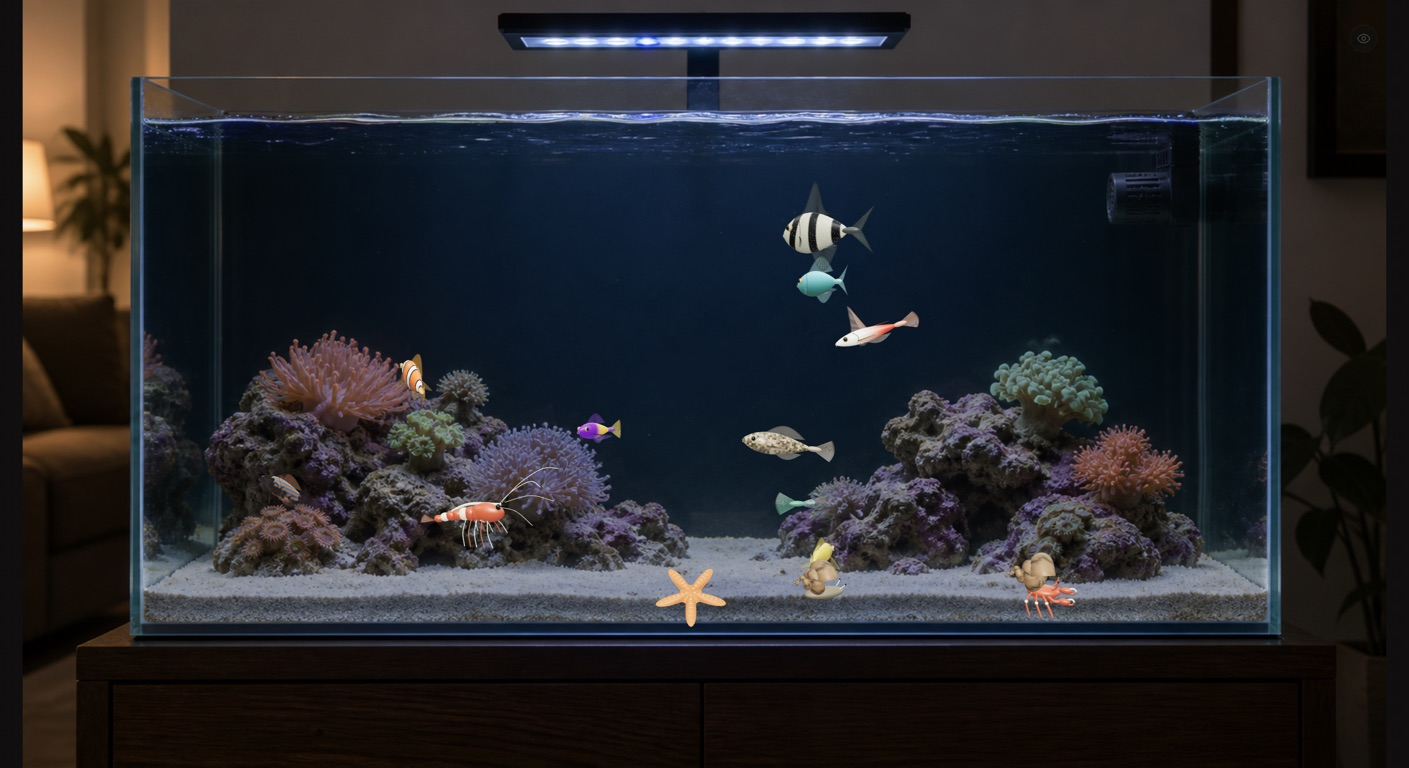
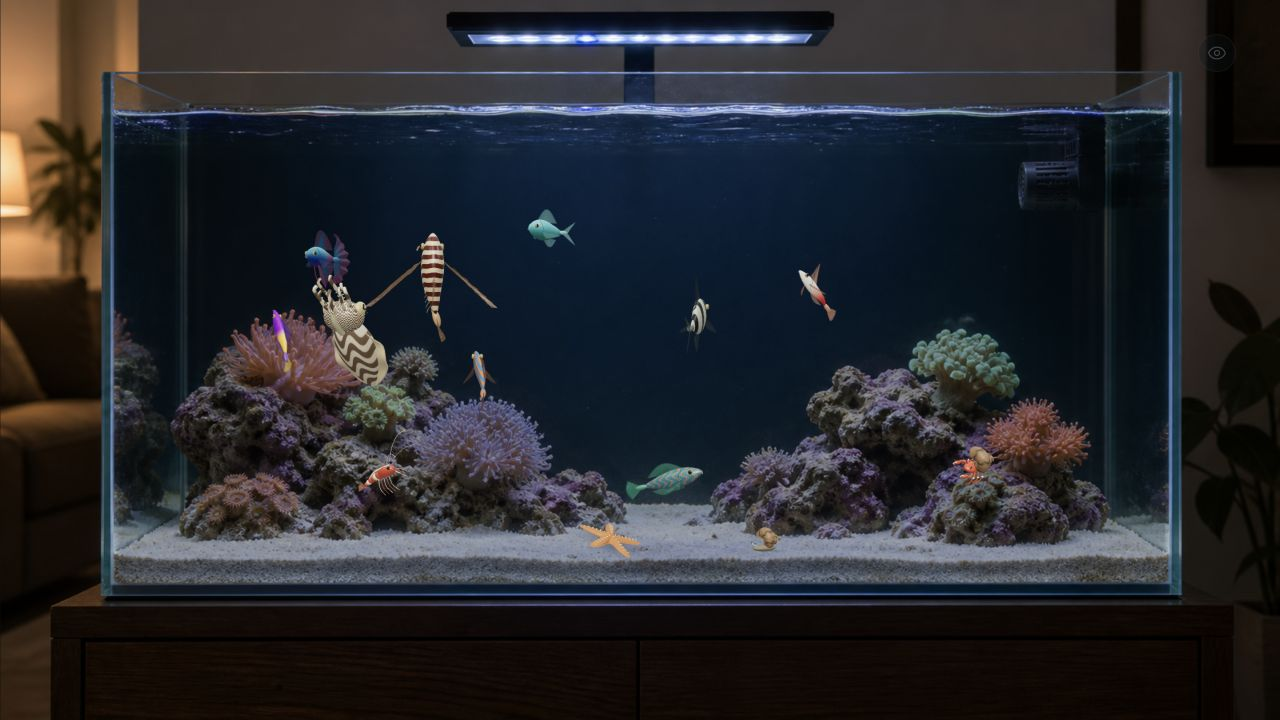
Refresh the Fish Tank Simulator image
Use a fresh September 13 screenshot of the updated aquarium for the blog thumbnail and social previews, keeping the existing asset path and manifest consistent.

diff --git a/REQUIREMENTS.md b/REQUIREMENTS.md
@@ -28,7 +28,7 @@ Functional and security constraints for **ronpicard.com**. Update this file when
 ### Content and routing
 
 - Article metadata MUST live in `src/data/siteArticles.json` and be normalized in `src/data/articles.ts`.
-- The Fish Tank Simulator project MUST include a local aquarium thumbnail, a short introduction, and playable demo and source code links; it MUST appear ahead of Pool Rooms among the September 12, 2026 additions.
+- The Fish Tank Simulator project MUST use a current local aquarium screenshot for its blog thumbnail and Open Graph image, include a short introduction and playable demo and source code links, and appear ahead of Pool Rooms among the September 12, 2026 additions.
 - Article metadata MUST pass the shared runtime schema before the app or build scripts consume it.
 - Article HTML MUST be extracted to per-article files under `public/article-bodies/`; the homepage catalog MUST load metadata only.
 - Public blog slugs MUST be derived from post titles (not legacy storage slugs); legacy slugs from the pre–Mar 2026 naming scheme MUST still resolve for bookmarks and prerendered paths.

diff --git a/CHANGELOG.md b/CHANGELOG.md
@@ -8,6 +8,7 @@ The format is based on [Keep a Changelog](https://keepachangelog.com/en/1.1.0/).
 
 ### Changed
 
+- Fish Tank Simulator's blog thumbnail and social link preview use a fresh screenshot of the updated aquarium, captured September 13, 2026.
 - The portfolio grid has larger project titles, brighter dates and supporting text, more room at the edges on phones, and subtle thumbnail framing adjustments. The compact header, neon theme, and three-column desktop layout remain.
 - The background uses sparse, slow teal circuit signals with occasional blue accents, short fading tails, subtle junction glows, and staggered quiet intervals. Signals favor card gaps and margins and dim beneath cards and the header; article content stays clear and reduced-motion users get a static frame.
 - The ClamAV Control post now describes the current Tauri 2 + Rust desktop app instead of the retired Electron build, and its repo link and live README point at the renamed `clamav-antivirus-ui` repository; its card image is a fresh v2.2.0 Status screen screenshot.
